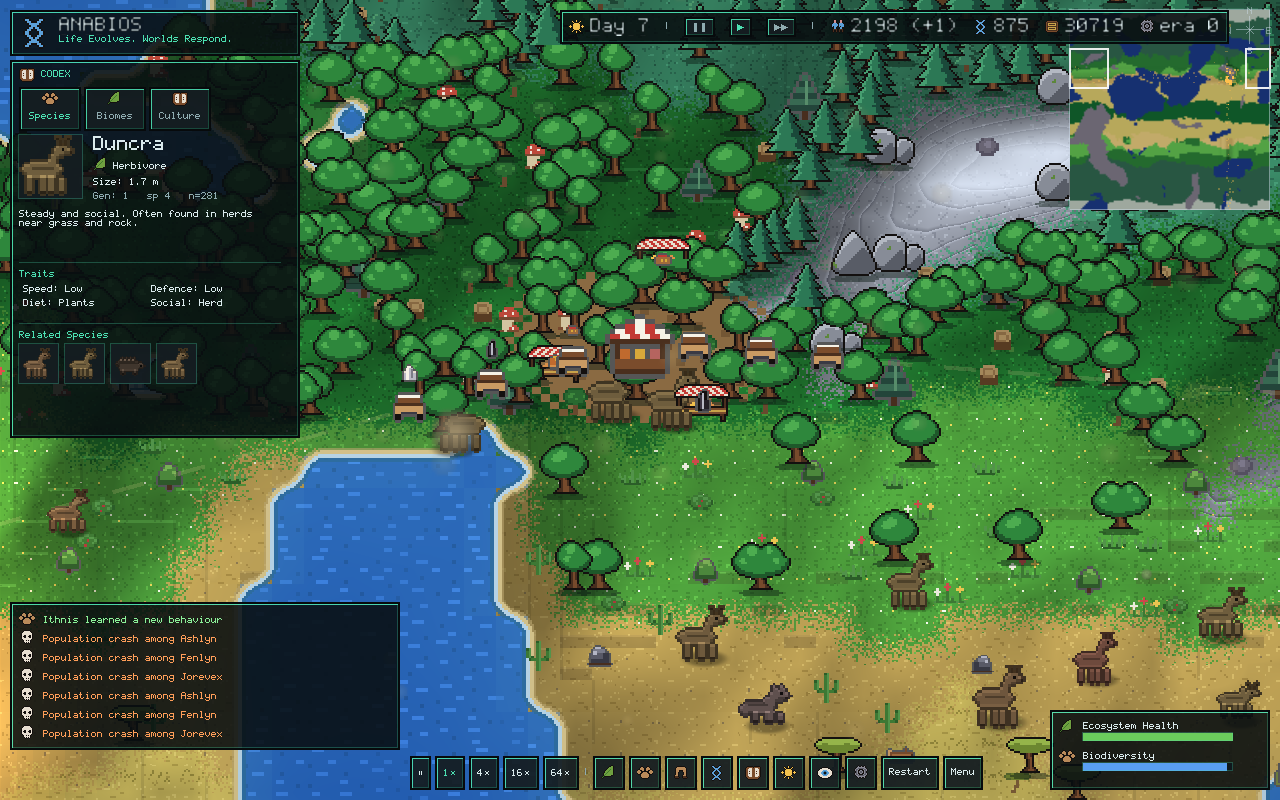
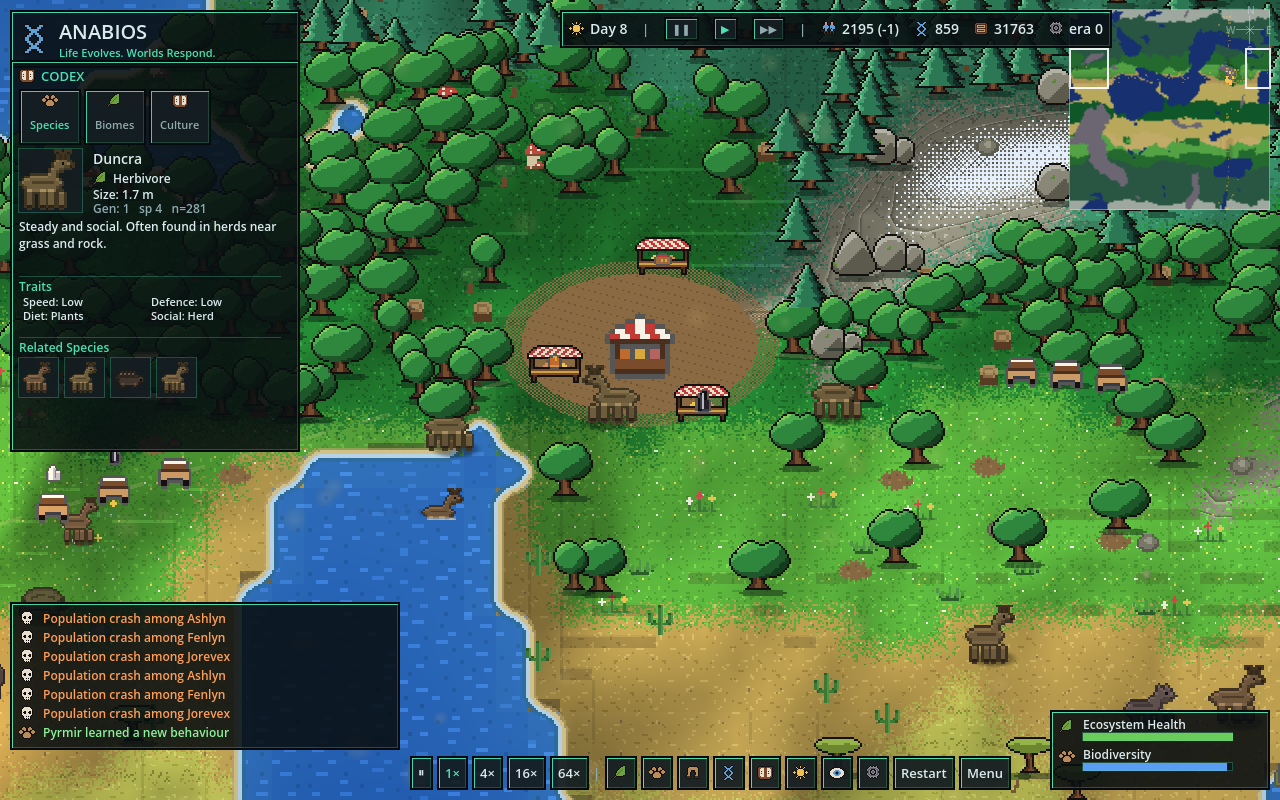
viewer: market square at the tiles' grain; snow line as an ordered dither
The hub square draws a 144 px yard image (a texel per half unit like the
ground tiles) instead of the village yards' 32 px patch stretched over
72 units, which at 8x became two-unit checker blocks. Snow on rock is
thresholded per ground texel against a 4x4 Bayer matrix over a narrower
altitude band, so a cap has a solid core and a stippled pixel edge rather
than a soft white haze over the whole outcrop.

Claude-Session: https://claude.ai/code/session_019kbTtZKC2VJBPY6SALU64h

diff --git a/gallery/README.md b/gallery/README.md
@@ -48,8 +48,8 @@ pins an agent in the unit card.
 | scale-settlement-t1020-codex-species-2x.png | `settlement` t1020 2× (`ANABIOS_CODEX_TAB=1`) | The settlement peninsula: flat lake water with block ripples, dithered biome borders, mixed oak silhouettes, olive savanna, resting herds with their heads up, the HUD. |
 | scale-settlement-t1591-1x.png | `settlement` t1591 1× | The same world at 1×. |
 | scale-settlement-t691-overview.png | `settlement` t691, `ANABIOS_CAM_FIT=1` | Whole-world framing: the overview mip with the density dots. |
-| scale-settlement-t891-market-8x.png | `settlement` t891 8× at (1060, 298) | The market square up close: stalls, goods on the counters, carts. |
-| scale-trade-hubs-t600-market-4x.png | `trade-hubs` t600 4× at (1060, 298) | A trade hub as a market square in the woods. |
+| scale-settlement-t891-market-8x.png | `settlement` t891 8× at (1060, 298) | The market square up close: stalls, goods on the counters, carts, the square's earth at the ground tiles' grain. |
+| scale-trade-hubs-t600-market-4x.png | `trade-hubs` t600 4× at (1060, 298) | A trade hub as a market square in the woods, a snow patch with an ordered-dither edge on the outcrop behind it. |
 | scale-riverlands-t291-relief-2x.png | `riverlands` t291 2× | Rivers with waterfalls on their steep stretches, contour-ledged snowy mountains in warm olive stone, forests mixing three oaks, clutter on the grass. |
 | scale-riverlands-t291-clutter-4x.png | `riverlands` t291 4× at (2500, 1200) | Flowers, tufts, mushrooms and stumps at 4×. |
 | scale-riverlands-t291-lake-4x.png | `riverlands` t291 4× at (2427, 1357) | A desert lake: one flat blue, sparse strokes, foam and beach from the coast autotile. |
